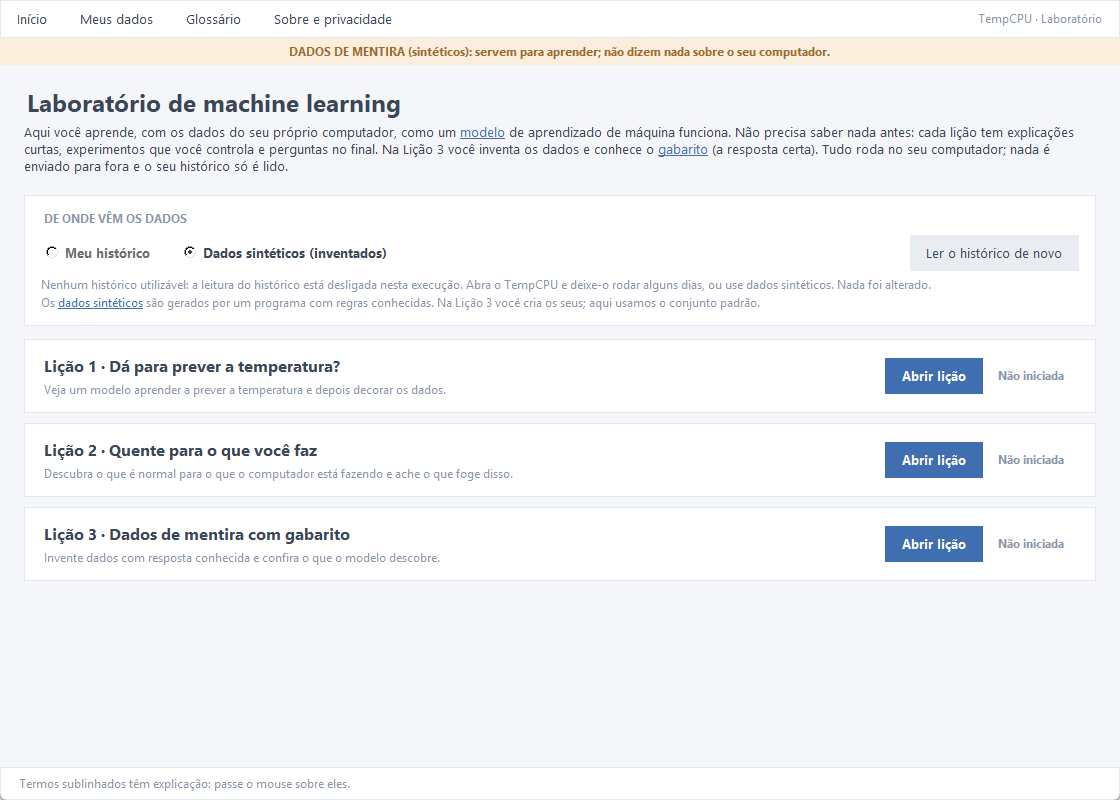
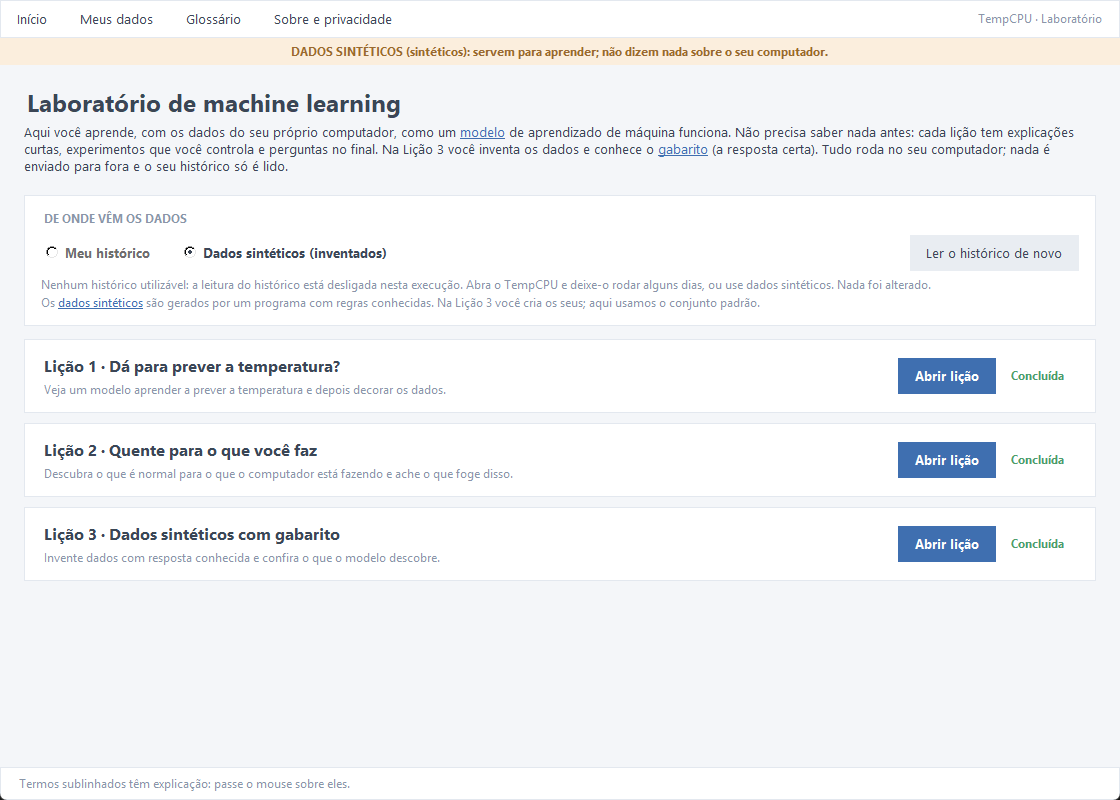
Dados sintéticos no lugar de 'dados de mentira'; link na tela no ambiente de teste; páginas ligadas

diff --git a/site/index.html b/site/index.html
@@ -15,6 +15,7 @@
     <a href="#como"><span class="pt">Como funciona</span><span class="en">How it works</span></a>
     <a href="#laboratorio"><span class="pt">Laboratório</span><span class="en">Lab</span></a>
     <a href="#requisitos"><span class="pt">Requisitos</span><span class="en">Requirements</span></a>
+    <a href="https://tempcpu-avaliacao.lmlo.workers.dev/"><span class="pt">Avaliação e certificado</span><span class="en">Assessment &amp; certificate</span></a>
     <a href="#apoio"><span class="pt">Apoie</span><span class="en">Support</span></a>
     <a href="#faq">FAQ</a>
     <button id="idioma" type="button" aria-label="Idioma / Language"><span class="pt">English</span><span class="en">Português</span></button>
@@ -100,12 +101,12 @@
   <section id="laboratorio" class="duas">
     <div class="texto">
       <h2><span class="pt">Laboratório: aprenda machine learning com o seu histórico</span><span class="en">Lab: learn machine learning from your own history</span></h2>
-      <p><span class="pt">Opcional e separado do app. Três lições para quem não sabe nada do assunto: prever a temperatura (e ver o sobreajuste), descobrir quando está “quente para o que você faz”, e criar dados de mentira com gabarito. Uma tela mostra a <strong>qualidade dos seus dados</strong> e diz o que falta para cada lição. O histórico é só seu e nunca é compartilhado.</span><span class="en">Optional and separate from the app. Three lessons for people who know nothing about the subject: predict temperature (and see overfitting), find out when it is “hot for what you are doing”, and create fake data with an answer key. One screen shows your <strong>data quality</strong> and what is missing for each lesson. Your history is yours alone and is never shared.</span></p>
+      <p><span class="pt">Opcional e separado do app. Três lições para quem não sabe nada do assunto: prever a temperatura (e ver o sobreajuste), descobrir quando está “quente para o que você faz”, e criar dados sintéticos com gabarito. Uma tela mostra a <strong>qualidade dos seus dados</strong> e diz o que falta para cada lição. O histórico é só seu e nunca é compartilhado.</span><span class="en">Optional and separate from the app. Three lessons for people who know nothing about the subject: predict temperature (and see overfitting), find out when it is “hot for what you are doing”, and create fake data with an answer key. One screen shows your <strong>data quality</strong> and what is missing for each lesson. Your history is yours alone and is never shared.</span></p>
       <p class="nota"><span class="pt">Exige Python 3.14 de 64 bits instalado; o ambiente (~240 MB) só é criado depois da sua confirmação.</span><span class="en">Requires 64-bit Python 3.14; the environment (~240 MB) is only created after you confirm.</span></p>
     </div>
     <figure class="imagem">
       <img src="img/lab1.png" alt="Lição 1 do Laboratório com curva de erro por profundidade / Lab lesson 1 with the error-by-depth curve" loading="lazy" width="1120" height="800">
-      <figcaption><span class="pt">Dados de mentira (sintéticos).</span><span class="en">Fake (synthetic) data.</span></figcaption>
+      <figcaption><span class="pt">Dados sintéticos.</span><span class="en">Synthetic data.</span></figcaption>
     </figure>
   </section>
 

diff --git a/cloudflare/src/app.ts b/cloudflare/src/app.ts
@@ -87,14 +87,18 @@ export function criarApp(deps: Deps) {
 
   const ip = (req: Request) => req.headers.get("CF-Connecting-IP") ?? "local";
 
-  async function enviarLink(req: Request, env: Env, aluno: Aluno): Promise<void> {
+  /** Devolve o link só quando o ambiente é de teste E o e-mail está na lista de teste (nunca em produção). */
+  async function enviarLink(req: Request, env: Env, aluno: Aluno): Promise<string | null> {
     const token = aleatorio(32);
     await db.criarToken(env.DB, await sha256Hex(token), aluno.id, agora() + TOKEN_S);
+    const link = `${origem(req, env)}/confirmar?t=${token}`;
     await enviarEmail(env, {
       para: aluno.email,
       assunto: "Seu acesso à avaliação do Laboratório TempCPU",
-      texto: `Olá, ${aluno.nome}.\n\nPara entrar, abra o link abaixo (vale por 20 minutos e só pode ser usado uma vez):\n\n${origem(req, env)}/confirmar?t=${token}\n\nSe você não pediu este acesso, ignore esta mensagem.\n`,
+      texto: `Olá, ${aluno.nome}.\n\nPara entrar, abra o link abaixo (vale por 20 minutos e só pode ser usado uma vez):\n\n${link}\n\nSe você não pediu este acesso, ignore esta mensagem.\n`,
     });
+    const teste = (env.TESTE_EMAILS ?? "").toLowerCase().split(",").map((x) => x.trim()).filter(Boolean);
+    return env.AMBIENTE === "dev" && teste.includes(aluno.email) ? link : null;
   }
 
   function carregarProva(l: LinhaProva): Prova {
@@ -167,8 +171,8 @@ export function criarApp(deps: Deps) {
         await db.criarAluno(env.DB, { id, nome, email, marketing: c.marketing === true, agora: agora() });
         existente = await db.alunoPorId(env.DB, id);
       }
-      if (existente) await enviarLink(req, env, existente);
-      return json({ ok: true, mensagem: "Se o e-mail estiver correto, enviamos um link de acesso. Abra-o em até 20 minutos." });
+      const linkTeste = existente ? await enviarLink(req, env, existente) : null;
+      return json({ ok: true, mensagem: "Se o e-mail estiver correto, enviamos um link de acesso. Abra-o em até 20 minutos.", ...(linkTeste ? { linkTeste } : {}) });
     }
 
     if (m === "POST" && caminho === "/api/entrar") {
@@ -183,8 +187,8 @@ export function criarApp(deps: Deps) {
       }
       await limiteOuErro(env, `link:${email}`, 5, 3600);
       const existente = await db.alunoPorEmail(env.DB, email);
-      if (existente) await enviarLink(req, env, existente);
-      return json({ ok: true, mensagem: "Se este e-mail tiver cadastro, enviamos um link de acesso. Abra-o em até 20 minutos." });
+      const linkTeste = existente ? await enviarLink(req, env, existente) : null;
+      return json({ ok: true, mensagem: "Se este e-mail tiver cadastro, enviamos um link de acesso. Abra-o em até 20 minutos.", ...(linkTeste ? { linkTeste } : {}) });
     }
 
     if (m === "POST" && caminho === "/api/confirmar") {

diff --git a/cloudflare/test/app.test.ts b/cloudflare/test/app.test.ts
@@ -315,3 +315,21 @@ test("sem o segredo de assinatura, em produção, o certificado não é emitido"
   assert.equal((await x.c.json("/api/certificado", { provaId: id, nome: "Maria Exemplo" })).status, 500);
   void ORIGEM;
 });
+
+test("o link aparece na tela só em ambiente de teste e só para e-mails da lista de teste", async () => {
+  const x = novo({ TESTE_EMAILS: "teste@exemplo.com, Outro@Exemplo.com" });
+  const a = await x.c.json("/api/cadastro", { nome: "Pessoa Teste", email: "teste@exemplo.com", consentimento: true });
+  assert.match(String(a.j.linkTeste), /\/confirmar\?t=/);
+  const b = await x.c.json("/api/cadastro", { nome: "Outra Pessoa", email: "fora@exemplo.com", consentimento: true });
+  assert.equal(b.j.linkTeste, undefined);
+  const c2 = await x.c.json("/api/entrar", { email: "teste@exemplo.com" });
+  assert.match(String(c2.j.linkTeste), /\/confirmar\?t=/);
+  assert.equal((await x.c.json("/api/entrar", { email: "ninguem@exemplo.com" })).j.linkTeste, undefined); // não revela cadastro
+  const prod = novo({ AMBIENTE: "producao", TESTE_EMAILS: "teste@exemplo.com", TURNSTILE_SECRET: "x" });
+  assert.equal((await prod.c.json("/api/entrar", { email: "teste@exemplo.com" })).j.linkTeste, undefined);   // em produção nunca
+});
+
+test("as páginas ligam à página do projeto", async () => {
+  const { c } = novo();
+  assert.match(await (await c.pedir("/")).text(), /href="https:\/\/lucianomlo\.github\.io\/tempcpu\/">Página do projeto</);
+});

diff --git a/cloudflare/src/assets.ts b/cloudflare/src/assets.ts
@@ -50,6 +50,13 @@ export const FORMULARIO_JS = `
         .then(function (x) {
           if (x.ok && x.j.redirect) { location.href = x.j.redirect; return; }
           falar(msg, x.j.mensagem || x.j.erro || (x.ok ? "Pronto." : "Algo deu errado."), !x.ok);
+          if (x.ok && x.j.linkTeste && msg) {
+            var a = document.createElement("a");
+            a.href = x.j.linkTeste;
+            a.textContent = "Modo de teste: abrir o link de acesso";
+            msg.appendChild(document.createElement("br"));
+            msg.appendChild(a);
+          }
           if (botao) botao.disabled = !x.ok ? false : botao.disabled;
         })
         .catch(function () { falar(msg, "Sem conexão. Tente de novo.", true); if (botao) botao.disabled = false; });

diff --git a/cloudflare/src/paginas.ts b/cloudflare/src/paginas.ts
@@ -35,7 +35,7 @@ export function pagina(ctx: Contexto, titulo: string, corpo: string, opts: { tur
 <link rel="stylesheet" href="/estilo.css">${ts}</head>
 <body${opts.imprimir ? ' class="imprimir"' : ""}>
 <header class="topo"><a class="marca" href="/"><span class="ponto"></span>TempCPU · Avaliação</a>
-<nav><a href="/verificar">Verificar certificado</a>${nav}</nav></header>
+<nav><a href="${e(ctx.env.PAGINA_PROJETO || "https://lucianomlo.github.io/tempcpu/")}">Página do projeto</a><a href="/verificar">Verificar certificado</a>${nav}</nav></header>
 <main>${corpo}</main>
 <footer><p>${e(ctx.env.EMISSOR_NOME || "Mais Valor Consultoria e Serviços")} · <a href="/privacidade">Privacidade</a></p></footer>
 ${scripts}</body></html>`;

diff --git a/cloudflare/src/tipos.ts b/cloudflare/src/tipos.ts
@@ -18,6 +18,9 @@ export interface Env {
   CONTATO_PRIVACIDADE?: string;
   INTERVALO_MIN_FINAL_S?: string;
   MAX_FINAIS_POR_DIA?: string;
+  /** Segredo (lista separada por vírgulas): em AMBIENTE=dev, o link de acesso dessas contas aparece na tela, sem e-mail. */
+  TESTE_EMAILS?: string;
+  PAGINA_PROJETO?: string;
   /** Só em testes: substitui o banco empacotado. */
   BANCO_TESTE?: Banco;
 }

diff --git a/lab/ui/janela.py b/lab/ui/janela.py
@@ -40,7 +40,7 @@ class Laboratorio:
                               highlightthickness=1)
         self.barra.pack(side="bottom", fill="x")
         self.faixa_visivel = False
-        self.faixa_forcada = False                 # a lição 3 só usa dados de mentira, mesmo com a fonte "real" escolhida
+        self.faixa_forcada = False                 # a lição 3 só usa dados sintéticos, mesmo com a fonte "real" escolhida
         self.conteudo.pack(fill="both", expand=True)
         raiz.bind("<Configure>", lambda e: self.barra.config(wraplength=max(300, raiz.winfo_width() - 32)) if e.widget is raiz else None)
 
@@ -63,7 +63,7 @@ class Laboratorio:
         self.atualizar_faixa()
 
     def atualizar_faixa(self) -> None:
-        """A faixa "DADOS DE MENTIRA" fica visível sempre que os dados em uso são sintéticos."""
+        """A faixa "DADOS SINTÉTICOS" fica visível sempre que os dados em uso são sintéticos."""
         precisa = self.faixa_forcada or self.estado.conjunto().origem == "sintetico"
         if precisa and not self.faixa_visivel:
             self.faixa.pack(side="top", fill="x", before=self.conteudo)

diff --git a/lab/textos.py b/lab/textos.py
@@ -6,7 +6,7 @@ Nada aqui é concatenado com dados do usuário: valores entram por `.format(...)
 
 # ---------------- geral ----------------
 TITULO_JANELA = "TempCPU — Laboratório"
-FAIXA_SINTETICA = "DADOS DE MENTIRA (sintéticos): servem para aprender; não dizem nada sobre o seu computador."
+FAIXA_SINTETICA = "DADOS SINTÉTICOS (sintéticos): servem para aprender; não dizem nada sobre o seu computador."
 BARRA_GLOSSARIO_VAZIA = "Termos sublinhados têm explicação: passe o mouse sobre eles."
 
 INICIO_TITULO = "Laboratório de machine learning"
@@ -42,7 +42,7 @@ LICOES = {
         "Veja um modelo aprender a prever a temperatura e depois decorar os dados."),
     2: ("Lição 2 · Quente para o que você faz",
         "Descubra o que é normal para o que o computador está fazendo e ache o que foge disso."),
-    3: ("Lição 3 · Dados de mentira com gabarito",
+    3: ("Lição 3 · Dados sintéticos com gabarito",
         "Invente dados com resposta conhecida e confira o que o modelo descobre."),
 }
 

diff --git a/lab/glossario.py b/lab/glossario.py
@@ -86,7 +86,7 @@ TERMOS: dict[str, tuple[str, str, str, str]] = {
                   "O resíduo semanal subindo 1,4 °C por semana."),
     "gabarito": ("gabarito", "ground truth",
                  "A resposta certa, conhecida de antemão. Só existe em dados inventados; nos dados reais ninguém tem o gabarito.",
-                 "Nos dados de mentira, o efeito do uso é exatamente 0,35 °C por 1%."),
+                 "Nos dados sintéticos, o efeito do uso é exatamente 0,35 °C por 1%."),
     "coeficiente": ("coeficiente", "coefficient",
                     "Quanto a previsão muda quando uma entrada aumenta uma unidade, mantendo as outras iguais.",
                     "Coeficiente do uso = 0,35: cada 1% a mais de uso soma 0,35 °C."),

diff --git a/tests_lab/test_ui_licao3.py b/tests_lab/test_ui_licao3.py
@@ -1,4 +1,4 @@
-"""Testes de interface da Lição 3 (dados de mentira com gabarito)."""
+"""Testes de interface da Lição 3 (dados sintéticos com gabarito)."""
 import sys
 import tkinter as tk
 import unittest
@@ -47,7 +47,7 @@ class TestLicao3(BaseUI):
         self.assertFalse(lab.faixa_visivel)
         lab.abrir_licao(3)
         self.raiz.update()
-        self.assertTrue(lab.faixa_visivel)                       # a lição 3 só usa dados de mentira
+        self.assertTrue(lab.faixa_visivel)                       # a lição 3 só usa dados sintéticos
         lab.mostrar_inicio()
         self.raiz.update()
         self.assertFalse(lab.faixa_visivel)

diff --git a/lab/textos_info.py b/lab/textos_info.py
@@ -32,6 +32,6 @@ SOBRE_BLOCOS = [
      "As sugestões das lições são indícios, não diagnóstico: para decidir sobre limpeza ou conserto, confirme na prática."),
     ("Dados sintéticos",
      "Nas lições e na Lição 3 você pode usar ⟦dados_sinteticos⟧: são inventados, têm gabarito conhecido e **não dizem nada sobre o seu "
-     "computador**. Sempre que estiverem em uso, aparece a faixa \"DADOS DE MENTIRA\" no alto da janela."),
+     "computador**. Sempre que estiverem em uso, aparece a faixa \"DADOS SINTÉTICOS\" no alto da janela."),
 ]
 SOBRE_VERSAO = "Laboratório do TempCPU, versão {versao}."

diff --git a/tests_lab/test_ui_info.py b/tests_lab/test_ui_info.py
@@ -86,7 +86,7 @@ class TestNavegacaoEInformacao(BaseUI):
         self.raiz.update()
         t = NL.join(todos_os_textos(lab.atual))
         for trecho in ("somente para leitura", "Nomes de programas nunca são lidos", "arquivo pequeno de progresso",
-                       "Não envia nada pela internet", "não diagnóstico".replace("não ", ""), "DADOS DE MENTIRA",
+                       "Não envia nada pela internet", "não diagnóstico".replace("não ", ""), "DADOS SINTÉTICOS",
                        f"versão {VERSAO}"):
             self.assertIn(trecho, t, trecho)
 
